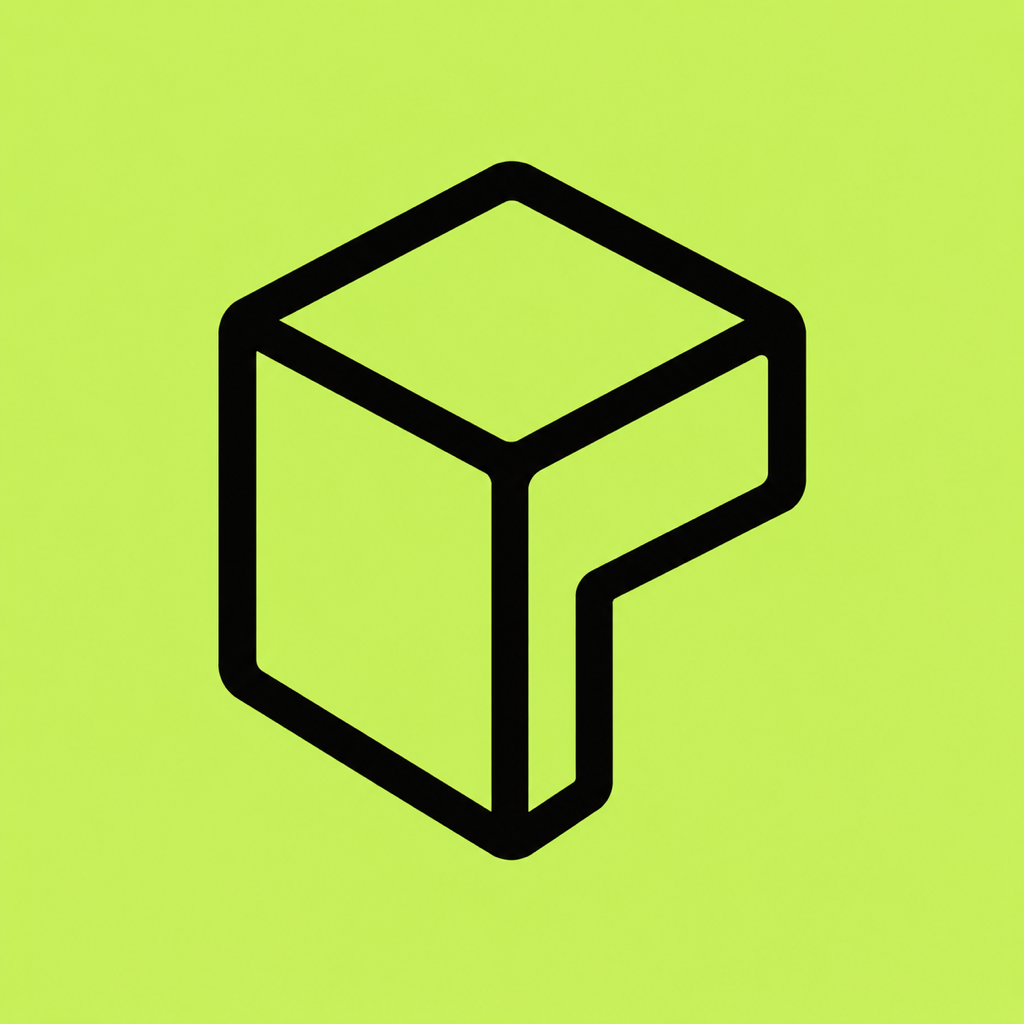
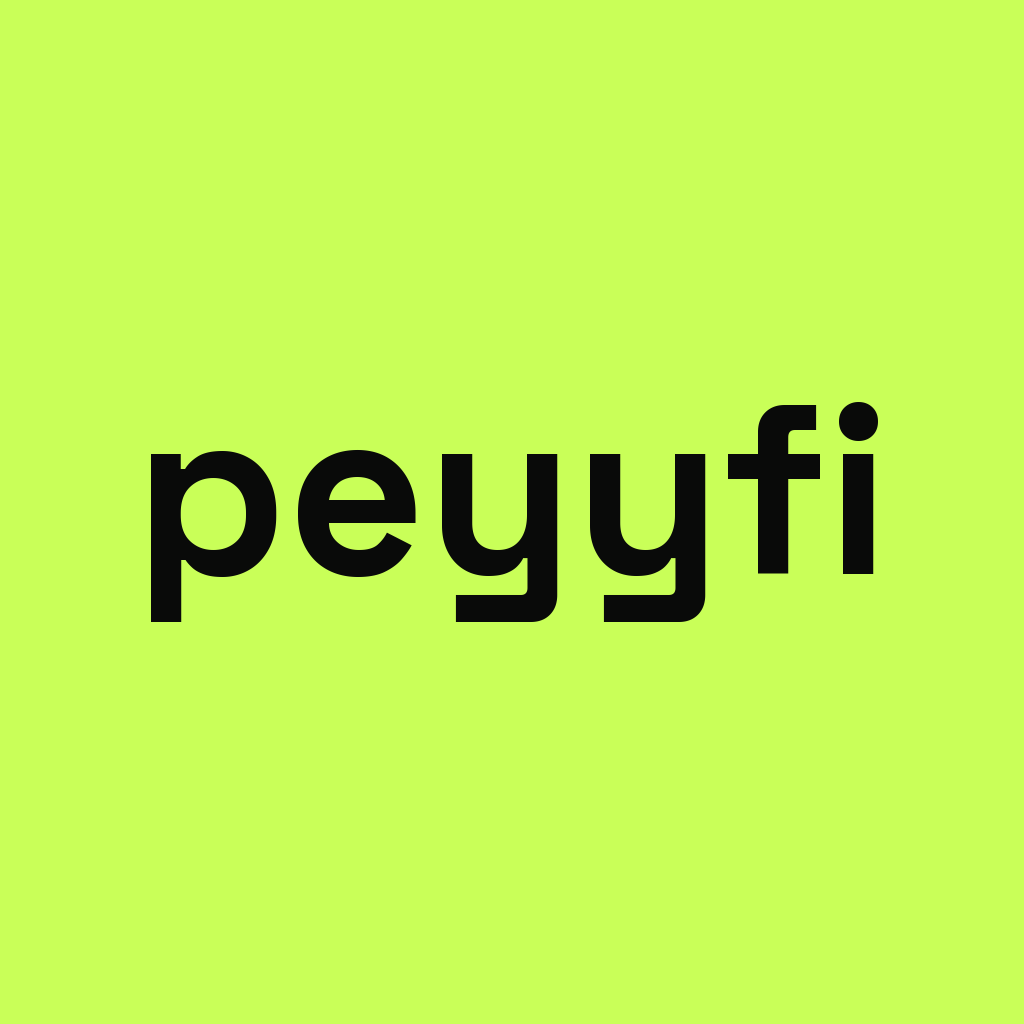
Update Peyyfi wordmark branding

Changed region(s): [[0.125, 0.1562, 0.875, 0.8438]]

diff --git a/app/page.tsx b/app/page.tsx
@@ -11,15 +11,7 @@ export default function Home() {
 
       <header className="site-header">
         <div className="brand-lockup" aria-label="Peyyfi">
-          <Image
-            className="brand-icon"
-            src="/peyyfi-icon.png"
-            alt=""
-            width={44}
-            height={44}
-            priority
-          />
-          <span>Peyyfi</span>
+          <span className="brand-wordmark">peyyfi</span>
         </div>
 
         <div className="launch-label">
@@ -55,7 +47,7 @@ export default function Home() {
             <div className="icon-frame-shine" />
             <Image
               className="hero-icon"
-              src="/peyyfi-icon.png"
+              src="/peyyfi-wordmark-icon.png"
               alt=""
               width={1024}
               height={1024}

diff --git a/app/globals.css b/app/globals.css
@@ -107,18 +107,14 @@ button {
 .brand-lockup {
   display: inline-flex;
   align-items: center;
-  gap: 12px;
-  font-size: 1.35rem;
+  font-size: 1.65rem;
   font-weight: 700;
-  letter-spacing: -0.045em;
+  letter-spacing: -0.055em;
+  line-height: 1;
 }
 
-.brand-icon {
-  display: block;
-  width: 44px;
-  height: 44px;
-  border-radius: 13px;
-  box-shadow: 0 0 0 1px rgba(201, 255, 88, 0.22);
+.brand-wordmark {
+  color: var(--lime);
 }
 
 .launch-label {
@@ -639,15 +635,8 @@ button {
     margin-bottom: 56px;
   }
 
-  .brand-icon {
-    width: 40px;
-    height: 40px;
-    border-radius: 12px;
-  }
-
   .brand-lockup {
-    gap: 10px;
-    font-size: 1.22rem;
+    font-size: 1.5rem;
   }
 
   .launch-label {
